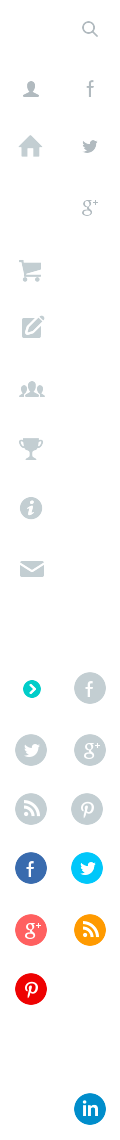
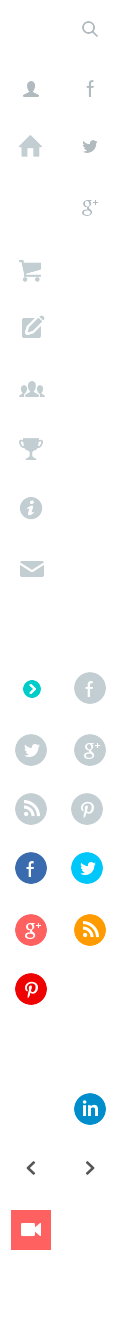
update

diff --git a/css/main.css b/css/main.css
@@ -849,3 +849,268 @@ form.sign-in input[type=submit] {
     font-weight: 300;
     font-size: 15px;
 }
+
+#slider {
+    width: 928px;
+    height: 453px;
+    background-color: #787878;
+    overflow: hidden;
+    position: relative;
+    margin-bottom: 14px;
+}
+
+#slider ul {
+    list-style-type: none;
+    margin: 0;
+    padding: 0;
+}
+
+#slider li {
+    position: relative;
+}
+
+#slider .slider-info {
+    position: absolute;
+    top: 33px;
+    left: 56px;
+    width: 350px;
+}
+
+#slider h3 {
+    color: #fff;
+    font-size: 46px;
+    font-weight: 300;
+    margin: 0 0 20px 0;
+}
+
+#slider p {
+    font-size: 14px;
+    color: #fff;
+    margin:0 0 32px 4px;
+    line-height: 24px;
+    font-weight: 300;
+}
+
+#slider .slider-info a {
+    text-transform: uppercase;
+    border-radius: 3px;
+    width: 171px;
+    height: 52px;
+    margin-left: 2px;
+    box-sizing: border-box;
+    border: 1px solid #fff;
+    display: block;
+    color: #fff;
+    text-decoration: none;
+    text-align: center;
+    line-height: 50px;
+    transition: .1s all linear;
+}
+
+#slider .slider-info a:hover {
+    background-color: #fff;
+    color: #787878;
+}
+
+#slider > a {
+    width: 34px;
+    height: 52px;
+    position: absolute;
+    text-align: center;
+    font-size: 30px;
+    background: url(../img/icons.png) no-repeat #fff;
+    top: 217px;
+}
+
+#slider .left {
+    left: 0;
+    background-position: -14px -1141px;
+    border-radius: 0 2px 2px 0;
+}
+
+#slider .right {
+    right: 0;
+    background-position: -71px -1141px;
+    border-radius: 2px 0 0 2px;
+}
+
+#slider ul.slider-nav {
+    width: 100px;
+    bottom: 7px;
+    margin: 10px 0;
+    left: 425px;
+    position: absolute;
+}
+
+#slider ul.slider-nav li {
+    float: left;
+    width: 10px;
+    height: 10px;
+    margin-right: 6px;
+    border: 1px solid #fff;
+    border-radius: 50%;
+    cursor: pointer;
+    transition: .1s all linear;
+}
+
+#slider ul.slider-nav li:hover,
+#slider ul.slider-nav li.active {
+    background-color: #fff;
+}
+
+.video-block {
+    width: 928px;
+    margin-bottom: 14px;
+}
+
+.video-block:after {
+    content:'';
+    display: table;
+    clear: both;
+}
+
+.video-block .text {
+    width: 314px;
+    background-color: #fff;
+    float: left;
+    height: 300px;
+    padding: 36px 22px 0 62px;
+    box-sizing: border-box;
+    position: relative;
+}
+
+.video-block .text:before {
+    content: '';
+    position: absolute;
+    background: url(../img/icons.png) no-repeat -11px -1210px transparent;
+    width: 40px;
+    height: 40px;
+    top: 36px;
+    left: 0;
+}
+
+.video-block h3 {
+    color: #475055;
+    font-size: 24px;
+    font-weight: 400;
+    line-height: 30px;
+    margin: 3px 0 11px;
+}
+
+
+.video-block .time {
+    color: #a3abaf;
+    font-size: 14px;
+    line-height: 16px;
+    margin-bottom: 34px;
+}
+
+.video-block .text p {
+    line-height: 24px;
+}
+
+.video-block .text a {
+    color: #ea6060;
+    text-decoration: none;
+}
+
+.video-block .text a:hover {
+    text-decoration: underline;
+}
+
+.video-block .buttons {
+    width: 109px;
+    height: 300px;
+    background-color: #1f3045;
+    float: left;
+}
+
+.video-block .buttons ul {
+    margin: 28px 0 0 0;
+    padding: 0;
+    list-style-type: none;
+}
+
+.video-block .buttons a {
+    color: #fff;
+    text-decoration: none;
+    display: block;
+    font-size: 16px;
+    text-align: center;
+    position: relative;
+    margin-bottom: 32px;
+    padding-top: 39px;
+    transition: .1s all linear;
+}
+
+.video-block .buttons a:hover {
+    color: #56ccc8;
+}
+
+.video-block .buttons a:before {
+    background: url(../img/icons.png) no-repeat transparent;
+    content: '';
+    width: 60px;
+    height: 60px;
+    position: absolute;
+    bottom: 7px;
+    left: 34px;
+}
+
+.video-block .buttons a.like:before {
+    background-position: -69px -1207px;
+}
+
+.video-block .buttons a.later:before {
+    background-position: -11px -1266px;
+}
+
+.video-block .buttons a.share:before {
+    background-position: -69px -1266px;
+}
+
+.video-content {
+    width: 505px;
+    height: 300px;
+    background-color: #787878;
+    float: left;
+    position: relative;
+}
+
+.video-content .play {
+    position: absolute;
+    top: 121px;
+    left: 168px;
+    width: 62px;
+    height: 62px;
+    background-color: #1f3045;
+    border-radius: 50%;
+    cursor: pointer;
+}
+
+.video-content .play span {
+    width: 0;
+    height: 0;
+    border-top: 14px solid transparent;
+    border-left: 21px solid #fff;
+    border-bottom: 14px solid transparent;
+    display: block;
+    position: absolute;
+    top: 16px;
+    left: 23px;
+}
+
+.video-content .play:hover span {
+    border-top: 16px solid transparent;
+    border-left: 24px solid #fff;
+    border-bottom: 16px solid transparent;
+    top: 14px;
+    left: 23px;
+}
+
+
+
+
+
+
+

diff --git a/index.html b/index.html
@@ -127,6 +127,48 @@
             <input type="submit" value="Sign up">
         </form>
     </div><!-- .right-column.with-background -->
+    <div id="slider">
+        <ul class="slide">
+            <li class="item-1">
+                <div class="slider-info">
+                    <h3>Featured Story</h3>
+
+                    <p>Now that the holiday gift-giving time is over, we're
+                        sure many of our readers unwrapped some new consoles.
+                        Despite its long life on the market...</p>
+                    <a href="#">View more</a>
+                </div>
+            </li>
+        </ul>
+        <a href="#" class="left"></a>
+        <ul class="slider-nav">
+            <li></li>
+            <li class="active"></li>
+            <li></li>
+            <li></li>
+        </ul>
+        <a href="#" class="right"></a>
+    </div><!-- #slider -->
+    <div class="video-block">
+        <div class="text">
+            <h3>Best story you<br>
+                have ever heard</h3>
+
+            <div class="time">24 minutes ago</div>
+            <p>Lorem Ipsum is simply dummy text of the printing and typesetting industry. Lorem ipsum has been the
+                industry’s... <a href="#">Read more</a></p>
+        </div>
+        <div class="buttons">
+            <ul>
+                <li><a href="#" class="like">Like</a></li>
+                <li><a href="#" class="later">Later</a></li>
+                <li><a href="#" class="share">Share</a></li>
+            </ul>
+        </div>
+        <div class="video-content">
+            <div class="play"><span></span></div>
+        </div>
+    </div><!-- .video-block -->
 </div><!-- .wrapper -->
 <script src="//code.jquery.com/jquery-1.11.2.min.js"></script>
 <script src="js/main.js"></script>
